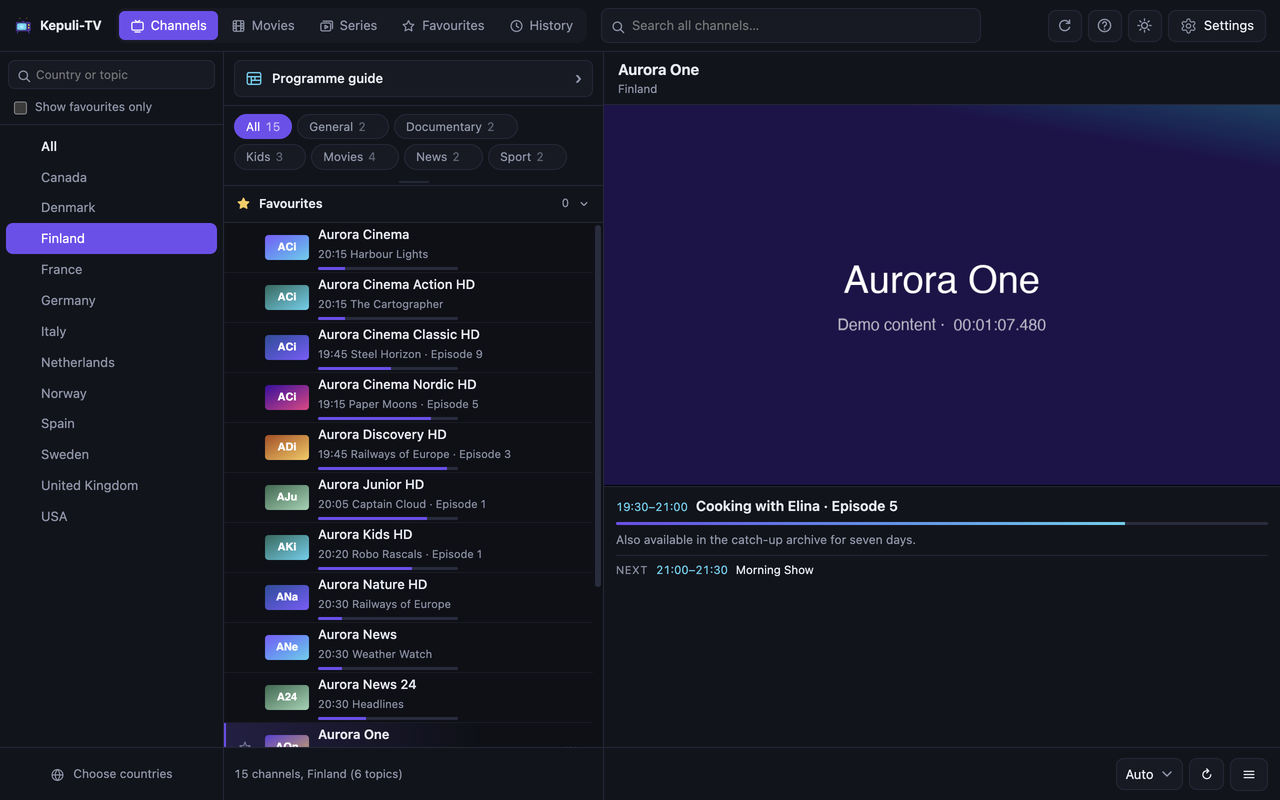
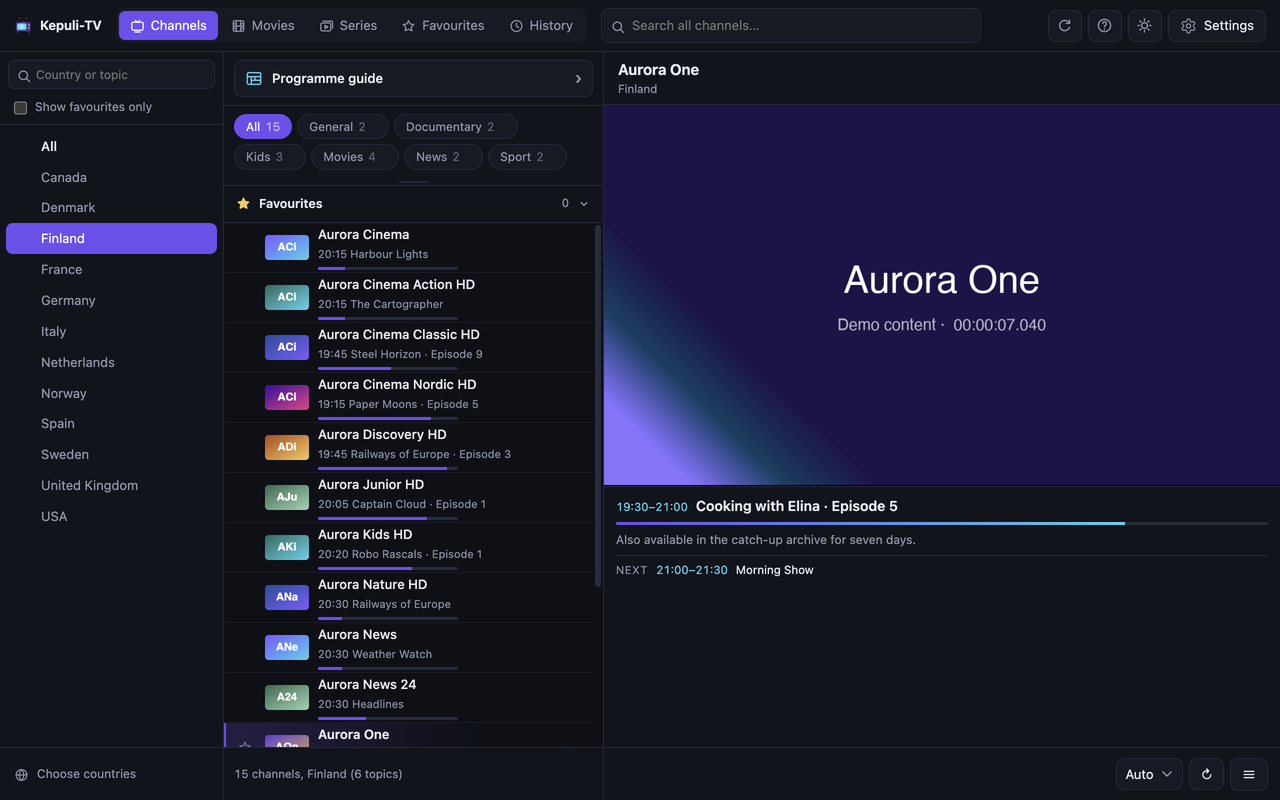
Choose countries and Choose categories back at the left of the sidebar's foot
The button under the sidebar starts at the left again, where the counts
and labels of the list's and the player's foot lines begin, rather than
centred. The visual references are taken again for the five views it
shows in.

Claude-Session: https://claude.ai/code/session_011jsMnvrRFhUGx9tiavzMEY

Changed region(s): [[0.4688, 0.3438, 0.6562, 0.625], [0.875, 0.125, 1.0, 0.1875], [0.0312, 0.9375, 0.125, 1.0]]

diff --git a/css/player.css b/css/player.css
@@ -359,11 +359,12 @@ main.guide #btn-copy { display: none; }
 }
 .groups-filter input:focus { border-color: var(--accent); }
 .groups-list { flex: 1; overflow-y: auto; padding: 6px; }
-/* The countries the viewer watches, under the sidebar on the channels: as
-   tall as the line under the list and the bar under the player
-   (--foot-h), so that the three end on one line. */
+/* The countries the viewer watches (the categories, on films and series),
+   under the sidebar: as tall as the line under the list and the bar under
+   the player (--foot-h), so that the three end on one line; at the left,
+   where the counts and labels of the other two lines begin. */
 .groups-foot {
-  flex: none; display: flex; align-items: center; justify-content: center; gap: 8px; width: 100%; min-height: var(--foot-h);
+  flex: none; display: flex; align-items: center; justify-content: flex-start; gap: 8px; width: 100%; min-height: var(--foot-h);
   padding: 0 14px; border: 0; border-top: 1px solid var(--border); background: var(--panel);
   color: var(--muted); font: inherit; font-size: 0.75rem; text-align: left; cursor: pointer;
 }
